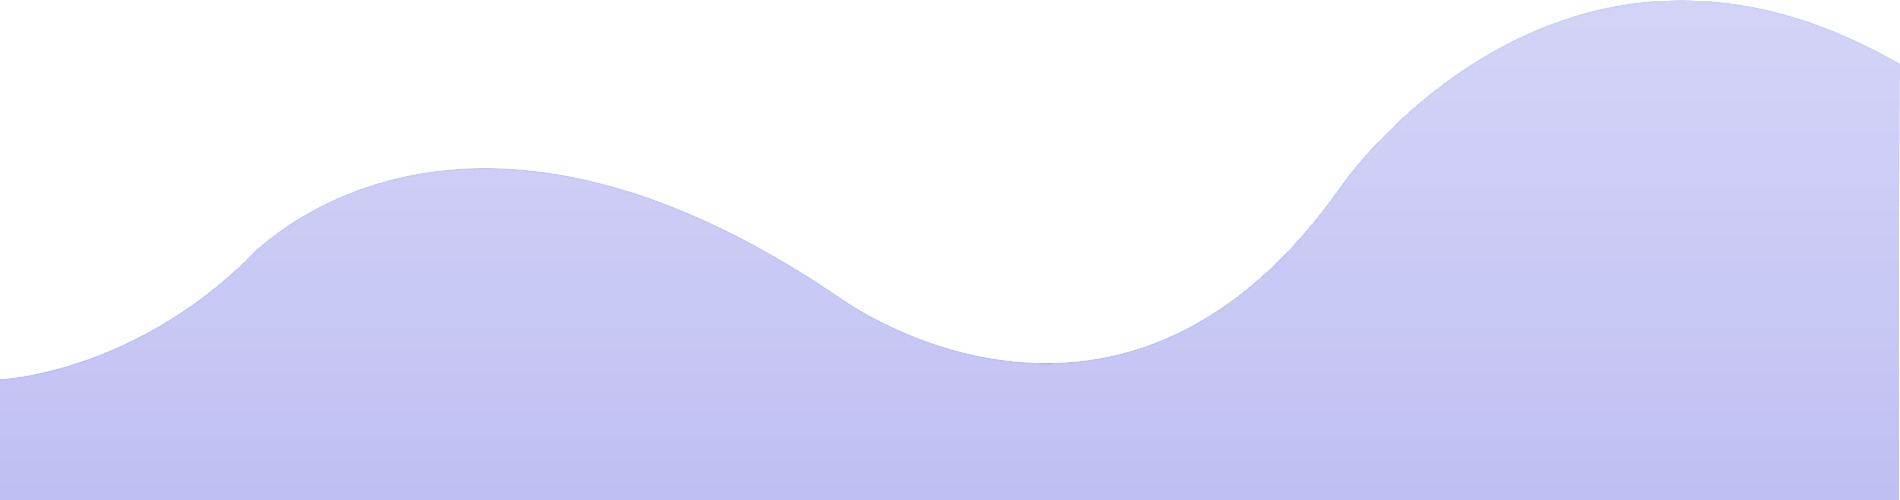
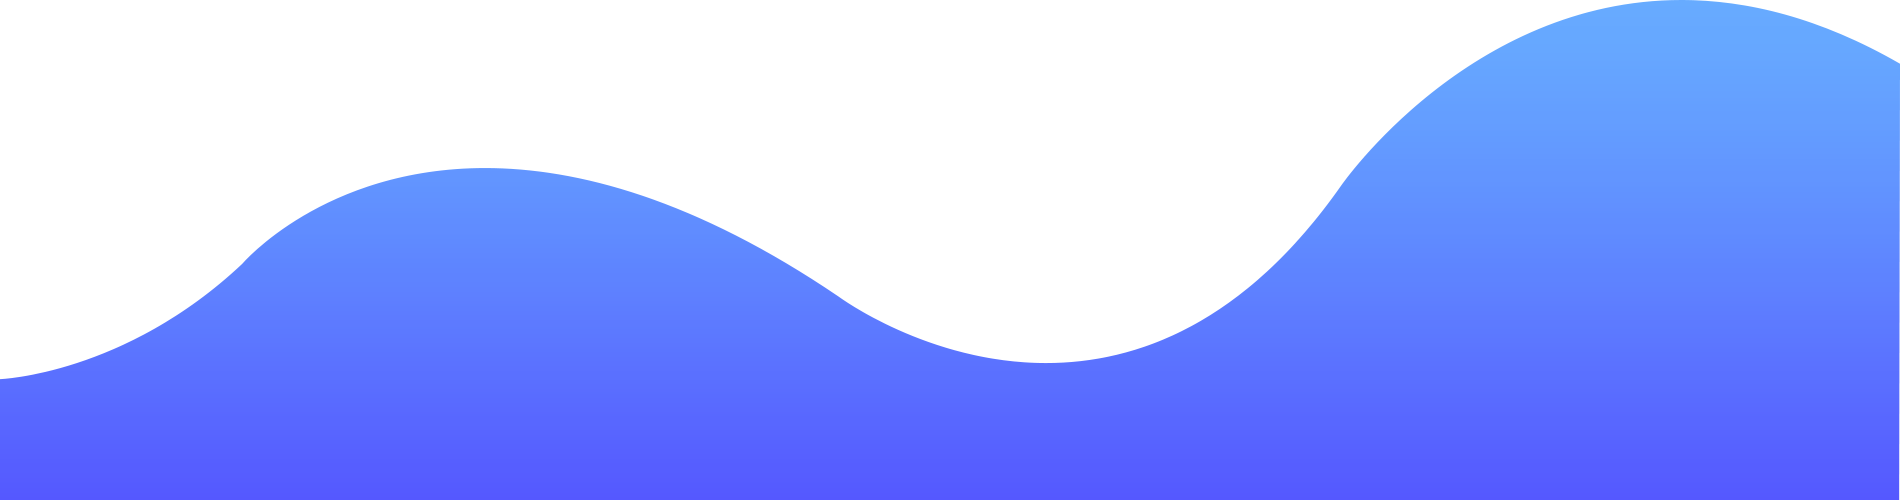
changes reverted

diff --git a/css/main.css b/css/main.css
@@ -149,8 +149,8 @@ button{
 .bd-top{ border-top: 1px solid #eaeaea;}
 .bd-bottom{ border-bottom: 1px solid #eaeaea;}
 .bg-gradiant{
-    background: #a09fed;  /* fallback for old browsers */
-    background: linear-gradient(-45deg, #a09fed 40%, #56a2ff 100%);
+    background: #3b21ff;  /* fallback for old browsers */
+    background: linear-gradient(-45deg, #3b21ff 40%, #56a2ff 100%);
 }
 .mb-10{ margin-bottom: 10px; }
 .mb-15{ margin-bottom: 15px; }
@@ -314,9 +314,9 @@ a,a:hover, .overlay, img, .form-control,  .form-control:hover, button{
     padding: 10px 0;
 }
 .navbar-fixed-top.header-section{
-    background: #a09fed;  /* fallback for old browsers */
-    background: -webkit-linear-gradient(to right, #a09fed, #56a2ff);
-    background: linear-gradient(to right, #a09fed, #56a2ff);
+    background: #3b21ff;  /* fallback for old browsers */
+    background: -webkit-linear-gradient(to right, #3b21ff, #56a2ff);
+    background: linear-gradient(to right, #3b21ff, #56a2ff);
     -webkit-box-shadow: 0 0 15px rgba(0,0,0,0.06);
     box-shadow: 0 0 15px rgba(0,0,0,0.06);
     -webkit-transition: background-color .5s;
@@ -565,7 +565,7 @@ ul.nav > li > a.active{
     color: #fff;
 }
 .ocean{
-    background: #a09fed;
+    background: #3b21ff;
     height: 10%;
     width:100%;
     position:absolute;
@@ -574,7 +574,7 @@ ul.nav > li > a.active{
     z-index: -1;
 }
 .wave {
-    background: url(../img/wave.svg) repeat-x;
+    background: url(../img/wave.jpg) repeat-x;
     position: absolute;
     top: -198px;
     width: 6400px;
@@ -625,7 +625,7 @@ ul.nav > li > a.active{
     font-size: 50px;
 }
 .promo-content i{
-    background-image: linear-gradient(-45deg, #a09fed 40%, #56a2ff 100%);
+    background-image: linear-gradient(-45deg, #3b21ff 40%, #56a2ff 100%);
     -webkit-background-clip: text;
     -webkit-text-fill-color: transparent;
     font-weight: 700;
@@ -653,7 +653,7 @@ ul.nav > li > a.active{
     align-items: center;
 }
 .content-item i{
-    background: linear-gradient(-45deg, #a09fed 100%, #56a2ff 40%);
+    background: linear-gradient(-45deg, #3b21ff 100%, #56a2ff 40%);
     color: #fff;
     width: 70px;
     height: 70px;
@@ -698,7 +698,7 @@ ul.nav > li > a.active{
     transition: all 0.3s ease-in-out;
 }
 .feature-box:hover{
-    background: linear-gradient(-45deg, #a09fed 40%, #56a2ff 100%);
+    background: linear-gradient(-45deg, #3b21ff 40%, #56a2ff 100%);
     box-shadow: 0 5px 10px 0 rgba(0, 0, 0, 0.5);
     transition: all 0.3s ease-in-out;
 }
@@ -713,7 +713,7 @@ ul.nav > li > a.active{
     color: #ddd;
 }
 .feature-box i{
-    background: linear-gradient(-45deg, #a09fed 40%, #56a2ff 100%);
+    background: linear-gradient(-45deg, #3b21ff 40%, #56a2ff 100%);
     color: #fff;
     font-size: 50px;
     height: 90px;
@@ -767,7 +767,7 @@ ul.nav > li > a.active{
     margin-top: -50px;
 }
 .video-box:before{
-    background: linear-gradient(-46deg, #56a2ff 50%, #a09fed 100%);
+    background: linear-gradient(-46deg, #56a2ff 50%, #3b21ff 100%);
     position: absolute;
     content: "";
     width: 100%;
@@ -791,7 +791,7 @@ ul.nav > li > a.active{
     margin-right: 30px;
 }
 .play-icon i{
-    background-image: linear-gradient(-45deg, #a09fed 40%, #56a2ff 100%);
+    background-image: linear-gradient(-45deg, #3b21ff 40%, #56a2ff 100%);
     -webkit-background-clip: text;
     font-weight: 700;
 }
@@ -809,7 +809,7 @@ ul.nav > li > a.active{
    Screenshot Section
    ========================================================================== */
 .owl-nav div{
-    background: #a09fed;
+    background: #3b21ff;
     box-shadow: 0px 16px 28px 0px rgba(0, 0, 0, 0.24);
     text-align: center;
     font-size: 18px;
@@ -914,7 +914,7 @@ ul.nav > li > a.active{
    Pricing Section
    ========================================================================== */
 .pricing-box{
-    background: linear-gradient(-45deg, #56a2ff 30%, #a09fed 100%);
+    background: linear-gradient(-45deg, #56a2ff 30%, #3b21ff 100%);
     padding: 40px;
     border-radius: 5px;
     transition: all 0.3s ease-in-out;
@@ -1063,7 +1063,7 @@ ul.nav > li > a.active{
     margin: 0;
 }
 .blog-content .read-more:hover{
-    background-color: #a09fed;
+    background-color: #3b21ff;
     color: #fff;
     box-shadow: 0 5px 10px 0 rgba(0, 0, 0, 0.1);
     -webkit-transform: translateY(1.1);
@@ -1150,7 +1150,7 @@ ul.nav > li > a.active{
 }
 .subscribe-form .submit:hover{
     cursor: pointer;
-    color: #a09fed;
+    color: #3b21ff;
 }
 #subscribe-result{
     display: none;
@@ -1216,7 +1216,7 @@ ul.nav > li > a.active{
     z-index: 999;
 }
 #scroll-to-top:hover{
-    background-color: #a09fed;
+    background-color: #3b21ff;
     color: #fff;
 }
 #scroll-to-top-tele{
@@ -1298,5 +1298,5 @@ ul.nav > li > a.active{
 }
 .subscribe-form-new .submit:hover{
     cursor: pointer;
-    color: #a09fed;
+    color: #3b21ff;
 }
